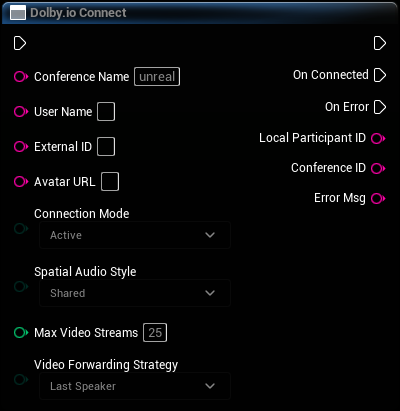
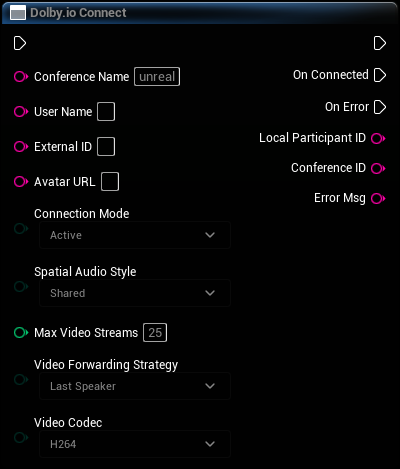
Doc updates

diff --git a/DolbyIO/Source/Public/DolbyIOBlueprints.h b/DolbyIO/Source/Public/DolbyIOBlueprints.h
@@ -134,6 +134,7 @@ public:
 	 * @param MaxVideoStreams - Sets the maximum number of video streams that may be transmitted to the user.
 	 * @param VideoForwardingStrategy - Defines how the plugin should select conference participants whose videos
 	 * will be transmitted to the local participant.
+	 * @param VideoCodec - The preferred video codec.
 	 */
 	UFUNCTION(BlueprintCallable, Category = "Dolby.io Comms",
 	          Meta = (BlueprintInternalUseOnly = "true", WorldContext = "WorldContextObject",
@@ -1085,7 +1086,7 @@ public:
 		DLB_EXECUTE_SUBSYSTEM_METHOD(SetAudioCaptureMode, NoiseReduction, VoiceFont);
 	}
 
-	/** Sends a message to the current conference. The message size is limited to 16KB.
+	/** Sends a message to selected participants in the current conference. The message size is limited to 16KB.
 	 *
 	 * @param Message - The message to send.
 	 * @param ParticipantIDs - The participants to whom the message should be sent. If an empty array is provided, the

diff --git a/DolbyIO/Source/Public/DolbyIOTypes.h b/DolbyIO/Source/Public/DolbyIOTypes.h
@@ -60,7 +60,7 @@ enum class EDolbyIOVideoCodec : uint8
 	H264,
 	/** The VP8 codec. */
 	VP8,
-	/** No codec used (meaning no video). */
+	/** No codec used (meaning an audio-only conference). */
 	None
 };
 

diff --git a/docs/docs/blueprints/functions.md b/docs/docs/blueprints/functions.md
@@ -14,6 +14,21 @@ Binds a dynamic material instance to hold the frames of the given video track. T
 
 ---
 
+## Dolby.io Broadcast Message
+
+Sends a message to all participants in the current conference. The message size is limited to 16KB.
+
+This function calls [Dolby.io Send Message](#dolbyio-send-message) with an empty array of selected participants.
+
+![](../../static/img/generated/DolbyIOBlueprintFunctionLibrary/img/nd_img_BroadcastMessage.png)
+
+#### Inputs and outputs
+| Name | Direction | Type | Default value | Description |
+|---|:---|:---|:---|:---|
+| **Message** | Input | string | - | The message to send. |
+
+---
+
 ## Dolby.io Change Screenshare Parameters
 
 Changes the screen sharing parameters if already sharing screen.
@@ -46,6 +61,7 @@ Connects to a conference.
 | **Spatial Audio Style** | Input | [Dolby.io Spatial Audio Style](types.mdx#dolbyio-spatial-audio-style) | Shared | The spatial audio style of the conference. |
 | **Max Video Streams** | Input | integer | 25 | Sets the maximum number of video streams that may be transmitted to the user. |
 | **Video Forwarding Strategy** | Input | [Dolby.io Video Forwarding Strategy](types.mdx#dolbyio-video-forwarding-strategy) | LastSpeaker | Defines how the plugin should select conference participants whose videos will be transmitted to the local participant. |
+| **Video Codec** | Input | [Dolby.io Video Codec](types.mdx#dolbyio-video-codec) | H264 | The preferred video codec. |
 
 #### Triggered events
 | Event | When |
@@ -171,6 +187,20 @@ Gets the current audio output device.
 | Event | When |
 |---|:---|
 | [**On Current Audio Output Device Received**](events.md#on-current-audio-output-device-received) | Successful |
+| [**On Error**](events.md#on-error) | Errors occur |
+
+---
+
+## Dolby.io Get Current Screenshare Source
+
+Gets the current screenshare source.
+
+![](../../static/img/generated/DolbyIOGetCurrentScreenshareSource/img/nd_img_UK2Node_AsyncAction.png)
+
+#### Triggered events
+| Event | When |
+|---|:---|
+| [**On Current Screenshare Source Received**](events.md#on-current-screenshare-source-received) | Successful |
 | [**On Error**](events.md#on-error) | Errors occur |
 
 ---
@@ -317,6 +347,20 @@ Mutes a given participant for the local user.
 | Name | Direction | Type | Default value | Description |
 |---|:---|:---|:---|:---|
 | **Participant ID** | Input | string | - | The ID of the remote participant to mute. |
+
+---
+
+## Dolby.io Send Message
+
+Sends a message to selected participants in the current conference. The message size is limited to 16KB.
+
+![](../../static/img/generated/DolbyIOBlueprintFunctionLibrary/img/nd_img_SendMessage.png)
+
+#### Inputs and outputs
+| Name | Direction | Type | Default value | Description |
+|---|:---|:---|:---|:---|
+| **Message** | Input | string | - | The message to send. |
+| **ParticipantIDs** | Input | array of strings | - | The participants to whom the message should be sent. If an empty array is provided, the message will be broadcast to all participants. |
 
 ---
 

diff --git a/docs/docs/blueprints/events.md b/docs/docs/blueprints/events.md
@@ -105,6 +105,18 @@ Triggered by [**Dolby.io Get Current Audio Output Device**](functions.md#dolbyio
 
 ---
 
+## On Current Screenshare Source Received
+
+Triggered by [**Dolby.io Get Current Screenshare Source**](functions.md#dolbyio-get-current-screenshare-source) when the source is received.
+
+#### Data provided
+| Provides | Type | Description |
+|---|:---|:---|
+| **Is None** | bool | If this value is "true", then there is no source set and the information in the Optional Source parameter is meaningless. |
+| **Optional Source** | [Dolby.io Screenshare Source](types.mdx#dolbyio-screenshare-source) | The current source. |
+
+---
+
 ## On Current Video Device Received
 
 Triggered by [**Dolby.io Get Current Video Device**](functions.md#dolbyio-get-current-video-device) when the device is received.
@@ -137,6 +149,18 @@ Triggered by functions if errors occur.
 ## On Initialized
 
 Triggered by [**Dolby.io Set Token**](functions.md#dolbyio-set-token) when the plugin is successfully initialized. After receiving this event, the plugin is ready for use. You can now, for example, call the [Dolby.io Connect](functions.md#dolbyio-connect) function.
+
+---
+
+## On Message Received
+
+Triggered automatically when a message is received.
+
+#### Data provided
+| Provides | Type | Description |
+|---|:---|:---|
+| **Message** | string | The received message. |
+| **Participant Info** | [Dolby.io Participant Info](types.mdx#dolbyio-participant-info) | Information about the sender. |
 
 ---
 
